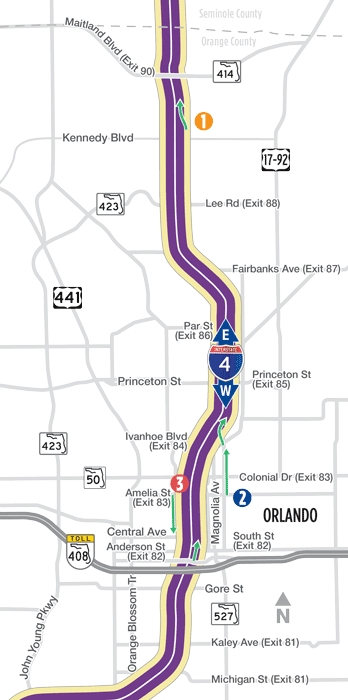
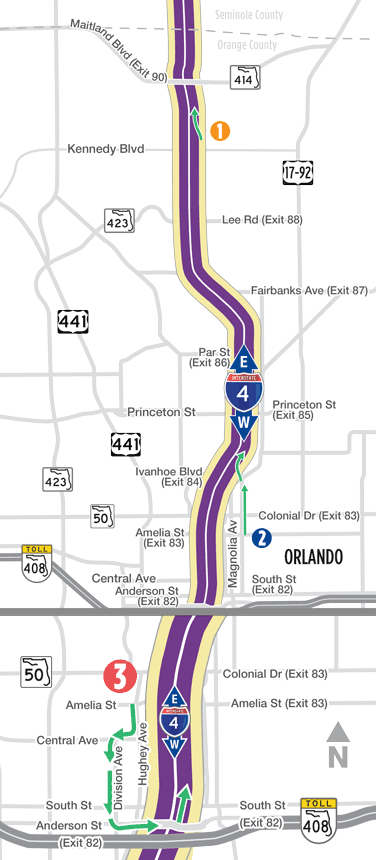
added share map functionality in the popup, and updated the maps, still working on this functionality

diff --git a/src/index.js b/src/index.js
@@ -1135,6 +1135,9 @@ window.initMap = function () {
     `
       );
     });
+
+    // Add Share button
+    shareMap(imgSrc);
   }
 
   // Adds Map key to the popup
@@ -1155,6 +1158,67 @@ window.initMap = function () {
     `
     );
   }
+
+  // *********************** TO BE REVISED *****************//
+  // Adds the share feature
+  function shareMap(mapUrl) {
+    let arrImgStr = mapUrl.toString();
+    // const blob = await fetch(arrImgStr).then(r => r.blob());
+    // get shareBtn Container through ID
+    let shareBtnID = document.getElementById('shareBtn');
+
+    // check if shareBtn container exists
+    if (shareBtnID) {
+      // remove shareBtn container
+      shareBtnID.remove();
+    }
+    // insert shareBtn container to the DOM
+    domElements.popupTxtImgContainerStr.insertAdjacentHTML(
+      'beforeend',
+      `
+    <div id="shareBtn" class="text-center">
+    <button class="btn btn-outline-info share-map-button">Share Map</button>
+    <p class="alert share-map-result" role="alert"></p>
+    </div>
+    `
+    );
+
+    // const shareData = {
+    //   url: arrImgStr,
+    // };
+
+    const btnShare = document.querySelector('.share-map-button');
+    const resultPara = document.querySelector('.share-map-result');
+
+    // Share must be triggered by "user activation"
+    btnShare.addEventListener('click', () => {
+      try {
+        navigator.share({
+          url: arrImgStr,
+        });
+        // toggle between classes
+        resultPara.classList.toggle('alert-success');
+        // add success message
+        resultPara.textContent = 'Map shared successfully!';
+      } catch (err) {
+        // toggle between classes
+        resultPara.classList.toggle('alert-danger');
+        // add error message
+        resultPara.textContent = 'Error: ' + err;
+      }
+      if (navigator.share) {
+        // we can use web share!
+        console.log('we can use web share!');
+        resultPara.textContent = 'Map shared successfully!';
+      } else {
+        // provide a fallback here
+        console.log('we CANNOT use web share!');
+      }
+    });
+
+    // console.log(mapUrl);
+  }
+  // *********************** TO BE REVISED *****************//
 
   // patching up bug for entry markers
   // **** //

diff --git a/src/data.js b/src/data.js
@@ -252,7 +252,7 @@ export const eastWestBounds = [
       entryWB: {
         images: [
           {
-            imgIn: ['Express-Lanes-LeeRd-W-ON-1.png'],
+            imgIn: ['Express-Lanes-LeeRd-W-ON.png'],
             imgOut: ['Express-Lanes-LeeRd-W-OFF-1.png'],
           },
         ],

diff --git a/src/index.css b/src/index.css
@@ -427,6 +427,15 @@ option {
   cursor: pointer;
 }
 
+/* Share btn styles */
+#shareBtn {
+  margin: 15px 0;
+}
+
+.share-map-button {
+  margin: 20px 0;
+}
+
 /* Map Styles */
 #map {
   position: relative;
